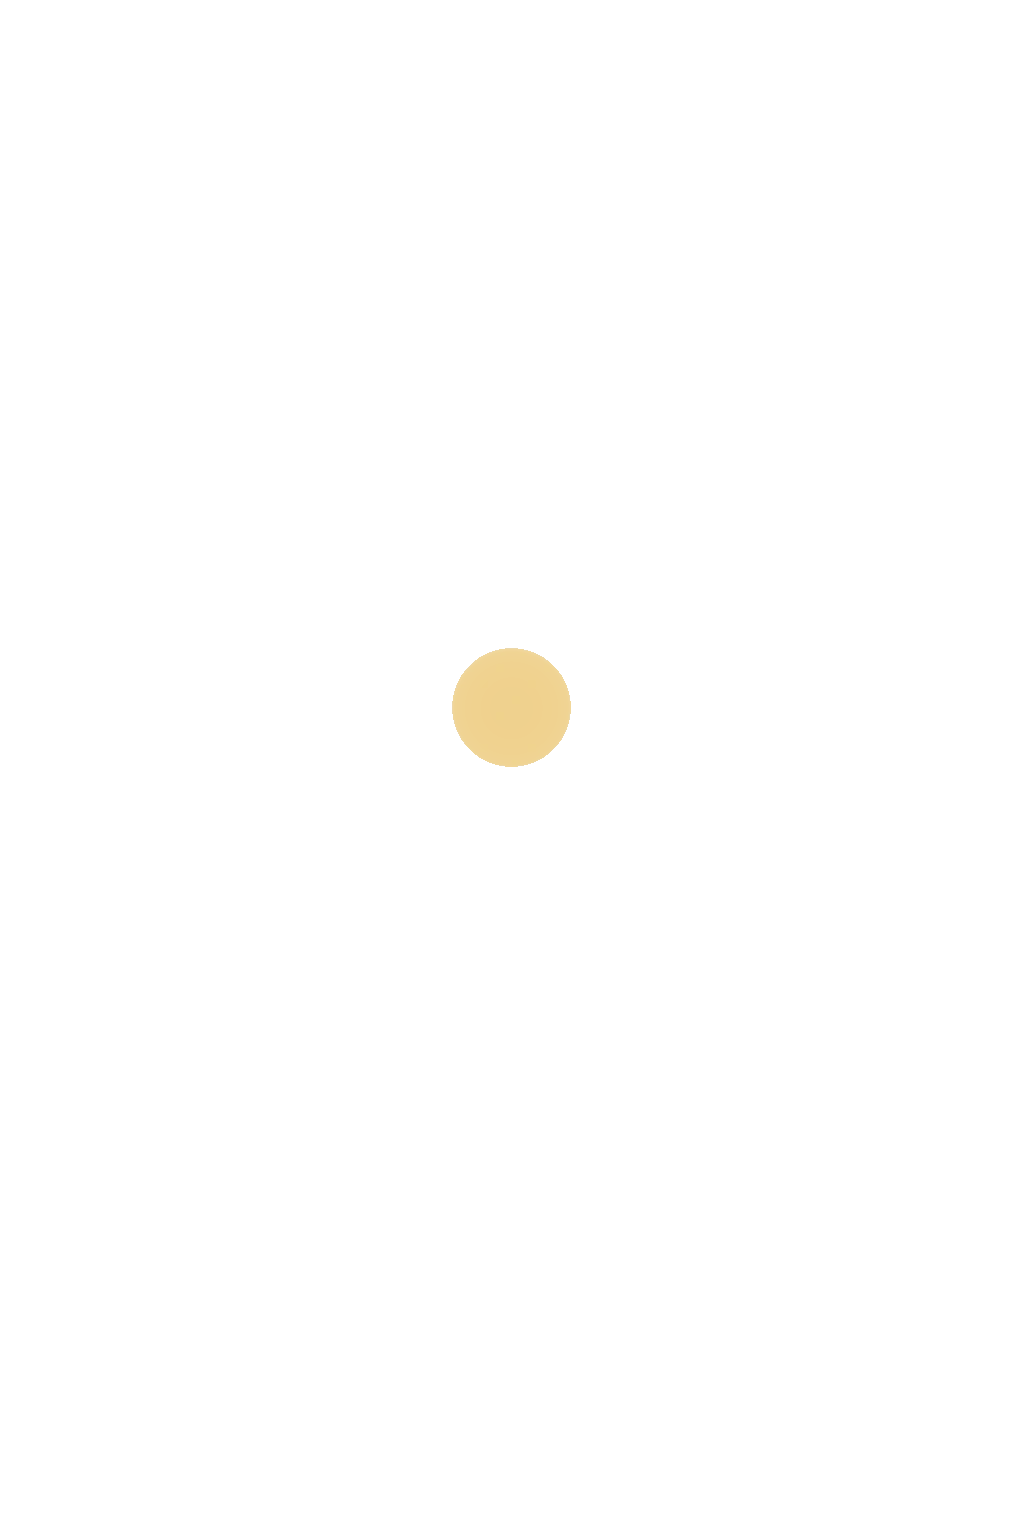
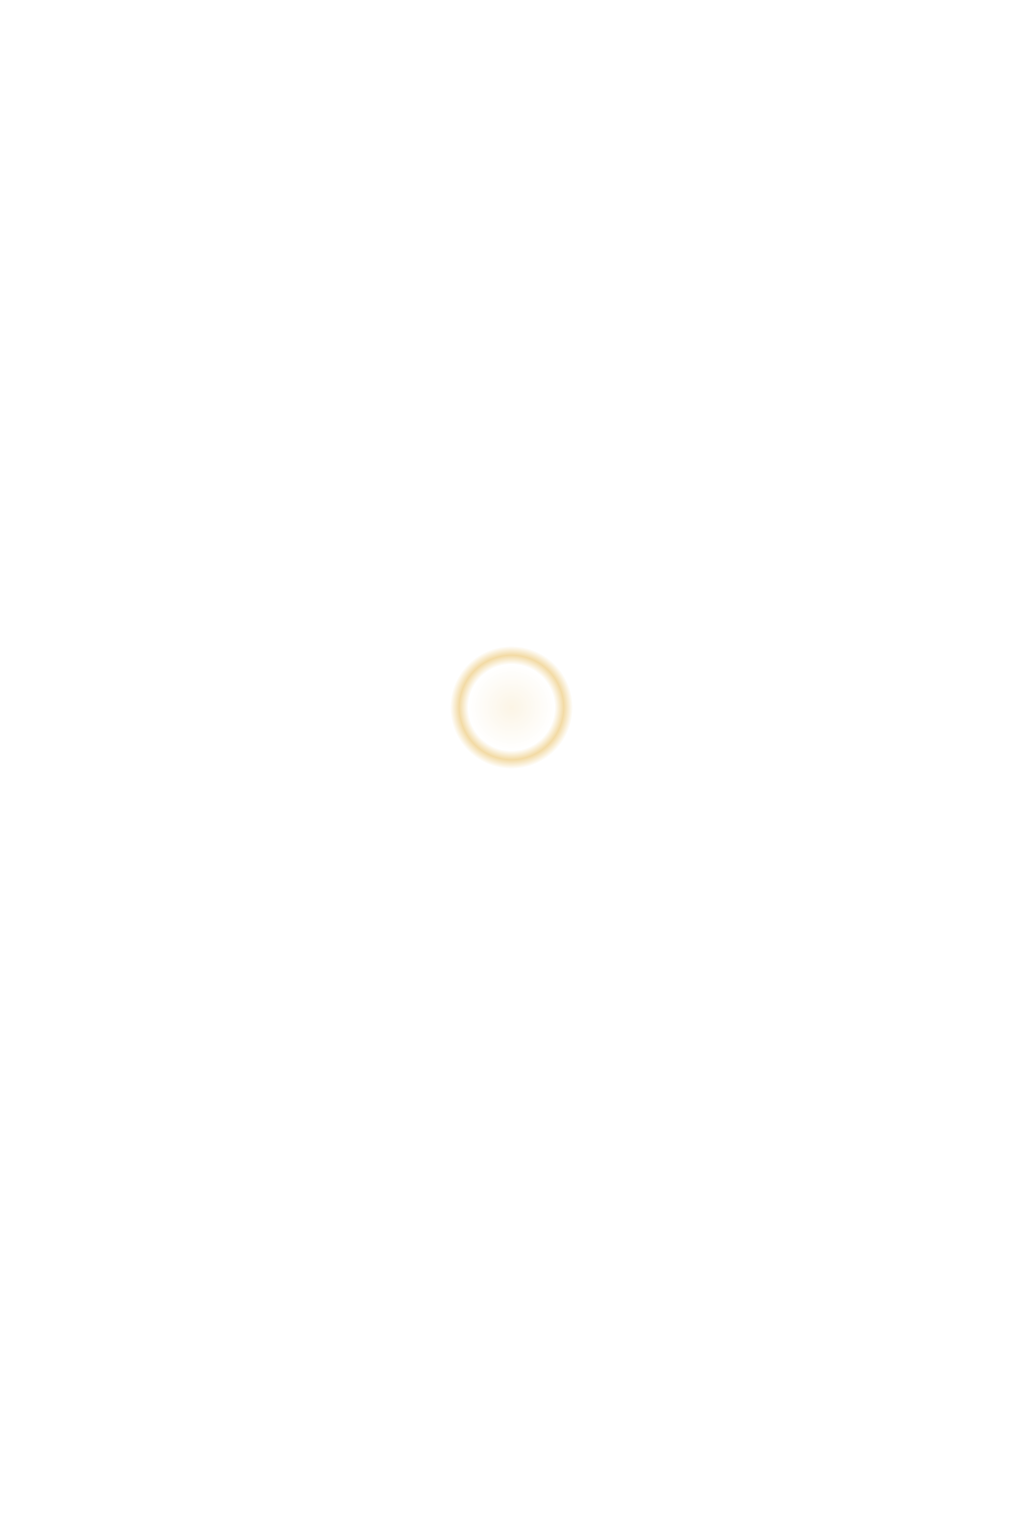
Fix center navy mismatch, top crease glow, and seal particles
Restore the closed-master center from pre-scrub paper tone, wipe glitter
outside a geometric seal disc so navy stays consistent (no black blotch),
and darken baked top-crease highlights on the paper. Strip remaining
top-diagonal glow from the floral overlay while preserving crest florals,
and soften the CSS seal aura so it no longer muddy the center.

Changed region(s): [[0.4375, 0.4062, 0.5625, 0.5]]

diff --git a/app/globals.css b/app/globals.css
@@ -568,16 +568,16 @@
   .intro-seal-wrap.is-idle-twinkle .intro-seal-idle-aura,
   .intro-seal-wrap.is-seal-lit .intro-seal-idle-aura {
     position: absolute;
-    inset: -14%;
+    inset: -8%;
     border-radius: 50%;
     pointer-events: none;
-    /* Soft seal halo only — no glitter spray on the paper */
+    /* Soft seal halo only — keep navy paper clean, no muddy vignette */
     background:
       radial-gradient(
         circle,
-        rgb(236 204 118 / 0.34) 0%,
-        rgb(220 186 96 / 0.16) 46%,
-        transparent 72%
+        rgb(236 204 118 / 0.22) 0%,
+        rgb(220 186 96 / 0.08) 40%,
+        transparent 68%
       );
   }
 
